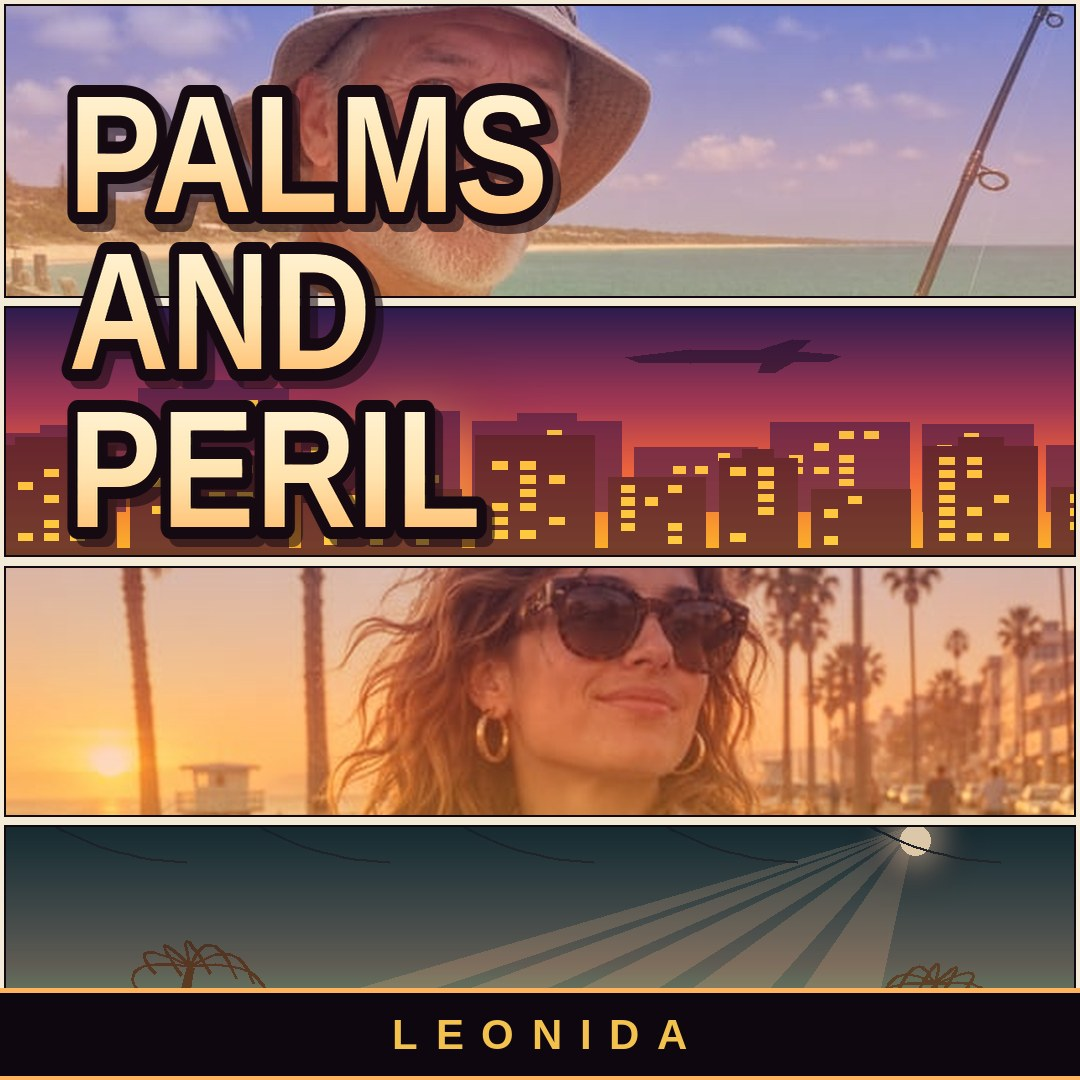
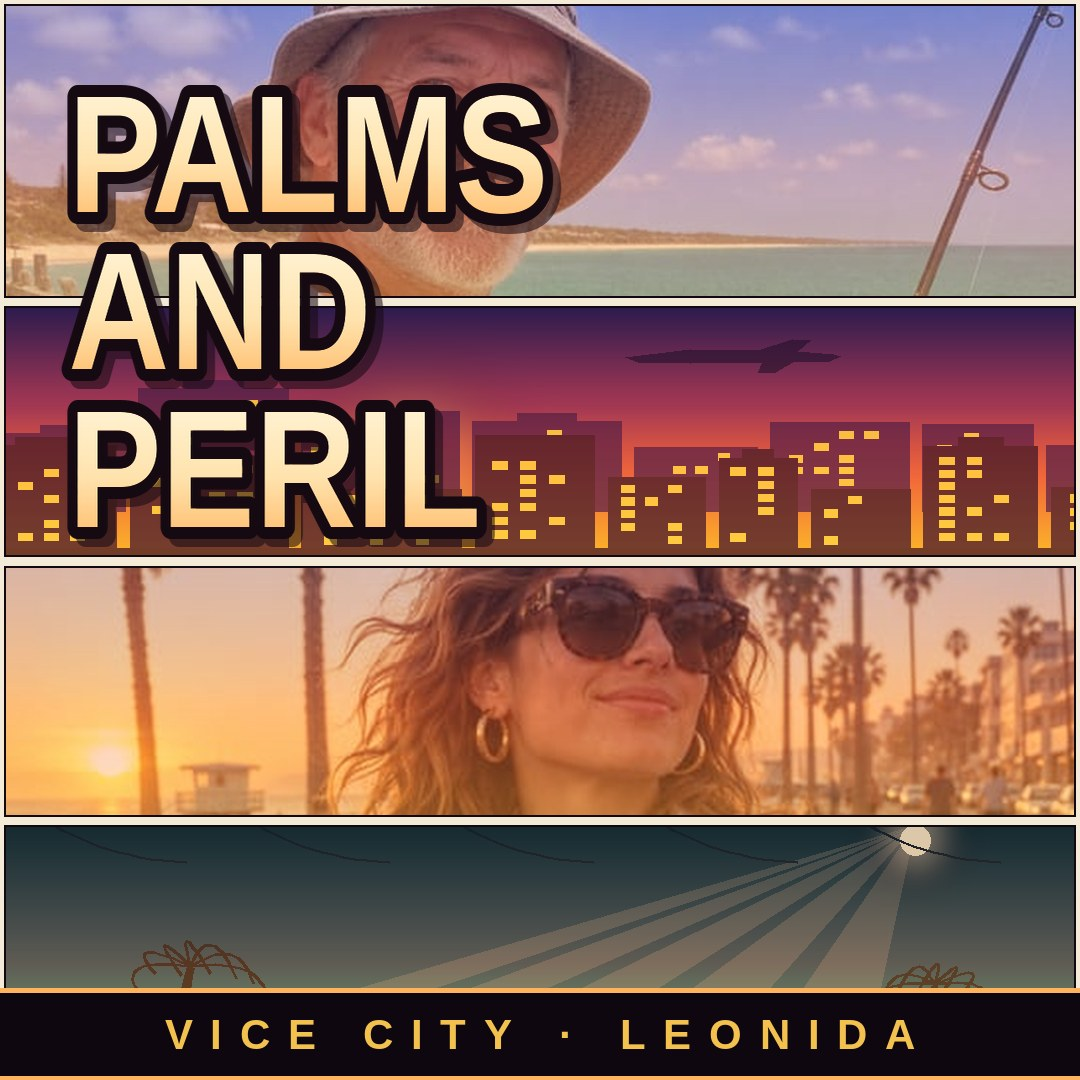
Match square cover subtitle to shots.json: Vice City · Leonida

Changed region(s): [[0.3361, 0.9472, 0.8556, 0.9778], [0.1528, 0.9472, 0.3056, 0.9778]]

diff --git a/tools/make_screenshots.py b/tools/make_screenshots.py
@@ -745,7 +745,7 @@ def main():
 
     cover4 = compose_cover({
         "layout": "strips", "grade": "vice", "caption": "Palms and Peril",
-        "subtitle": "Leonida", "spread": False, "spread_photo": None,
+        "subtitle": "Vice City · Leonida", "spread": False, "spread_photo": None,
         "panels": [{"kind": "photo", "photo": "pier", "oy": -0.7},
                    {"kind": "scene", "scene": "skyline-dusk"},
                    {"kind": "photo", "photo": "boulevard", "oy": -0.65},
